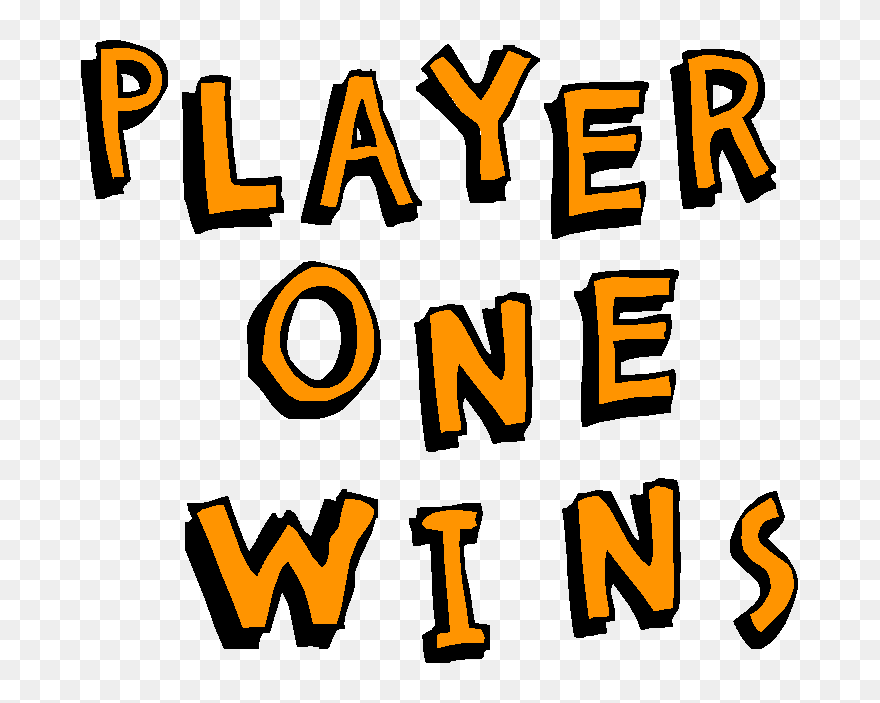
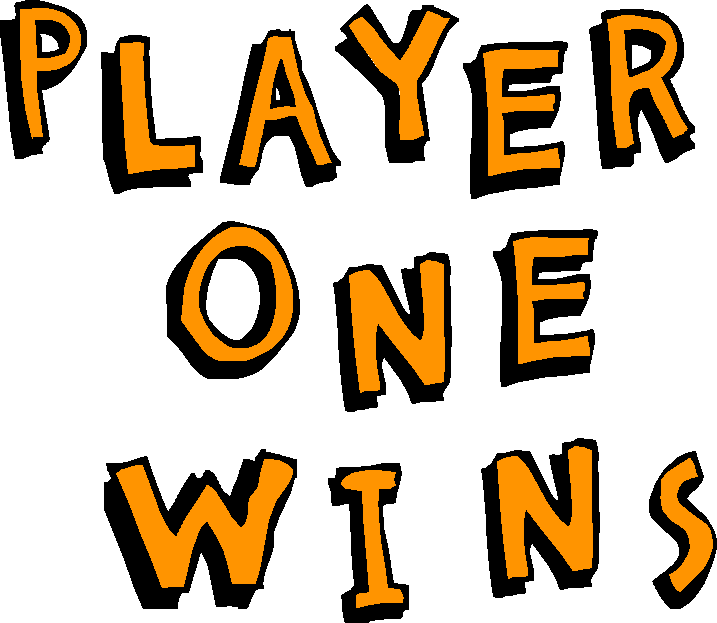
done

diff --git a/style.css b/style.css
@@ -114,6 +114,15 @@ form input {
     color: red;
 }
 
+@keyframes winKeyframe {
+	0% {
+		transform: scale(0);
+	}
+
+	100% {
+		transform: scale(1);
+	}
+}
 .end-game-one {
     top:0;
     left: 0;
@@ -122,9 +131,11 @@ form input {
     width: 100vw;
     height: 100vh;
     background-image: url("images/player1-wins.png");
+    background-position: 25vw;
     background-size: contain;
     background-repeat: no-repeat;
     background-color: rgb(102, 99, 99);
+    animation: winKeyframe 1s ease 0s 1 normal forwards;
 }
 
 .end-game-two {
@@ -139,4 +150,5 @@ form input {
     background-size: contain;
     background-repeat: no-repeat;
     background-color: rgb(102, 99, 99);
+    animation: winKeyframe 1s ease 0s 1 normal forwards;
 }

diff --git a/app.js b/app.js
@@ -299,7 +299,7 @@ const game = () => {
 
     setInterval(() => {
         if(gameOver) {
-            if(player1.rounds < 3 || player2.rounds < 3) {
+            if(player1.rounds < 3 && player2.rounds < 3) {
                 switchPlayer()
             }
             else if(player1.rounds === 3 || player2.rounds === 3) {
